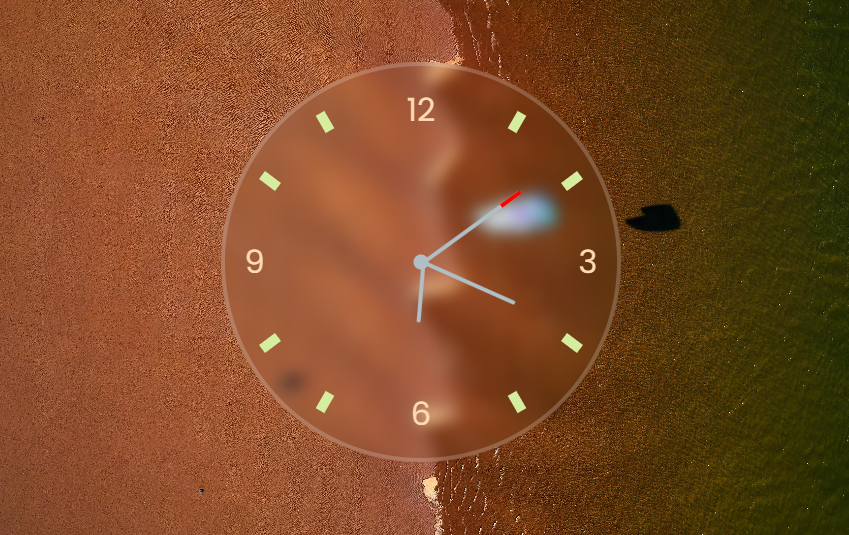
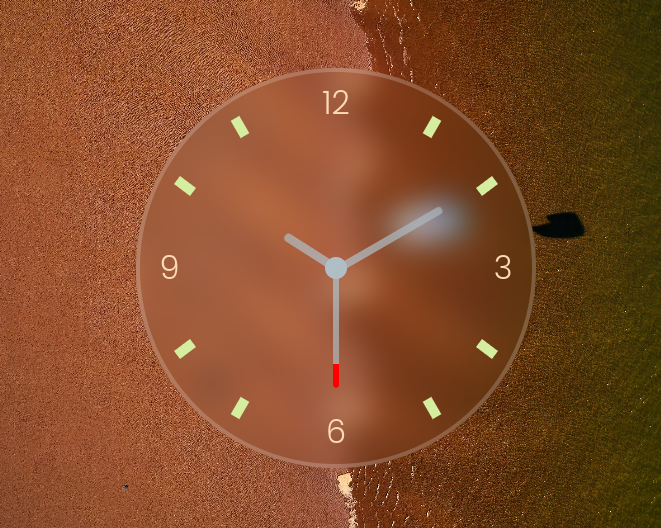
"Updated preview.png, modified styles in main.scss and style.css, and updated style.css.map"

Changed region(s): [[0.0, 0.0, 1.0, 1.0], [0.0605, 0.9091, 0.1513, 1.0], [0.0, 0.9697, 0.0303, 1.0]]

diff --git a/sass/main.scss b/sass/main.scss
@@ -29,7 +29,7 @@ body {
   height: 400px;
   width: 400px;
   border-radius: 100%;
-  backdrop-filter: blur(8px);
+  backdrop-filter: blur(16px);
   position: relative;
   font-size: 2rem;
   border: 4px solid rgba(255, 255, 255, 0.2);
@@ -139,7 +139,7 @@ body {
     transform-origin: left;
     transform: rotate(0deg);
     height: 9px;
-    width: 60px;
+    width: 63px;
     background-color: rgba($gray-mid, 0.5);
     backdrop-filter: blur(150px);
     border-radius: 0 20px 20px 0;
@@ -155,6 +155,7 @@ body {
     height: 6px;
     position: relative;
     overflow: hidden;
+    left: 50%;
     &::after {
       content: "";
       width: 20%;

diff --git a/styles/style.css b/styles/style.css
@@ -27,7 +27,7 @@ body {
   height: 400px;
   width: 400px;
   border-radius: 100%;
-  backdrop-filter: blur(8px);
+  backdrop-filter: blur(16px);
   position: relative;
   font-size: 2rem;
   border: 4px solid rgba(255, 255, 255, 0.2);
@@ -124,7 +124,7 @@ body {
   transform-origin: left;
   transform: rotate(0deg);
   height: 9px;
-  width: 60px;
+  width: 63px;
   background-color: rgba(176, 190, 197, 0.5);
   backdrop-filter: blur(150px);
   border-radius: 0 20px 20px 0;
@@ -138,6 +138,7 @@ body {
   height: 6px;
   position: relative;
   overflow: hidden;
+  left: 50%;
 }
 .pointer--second::after {
   content: "";
